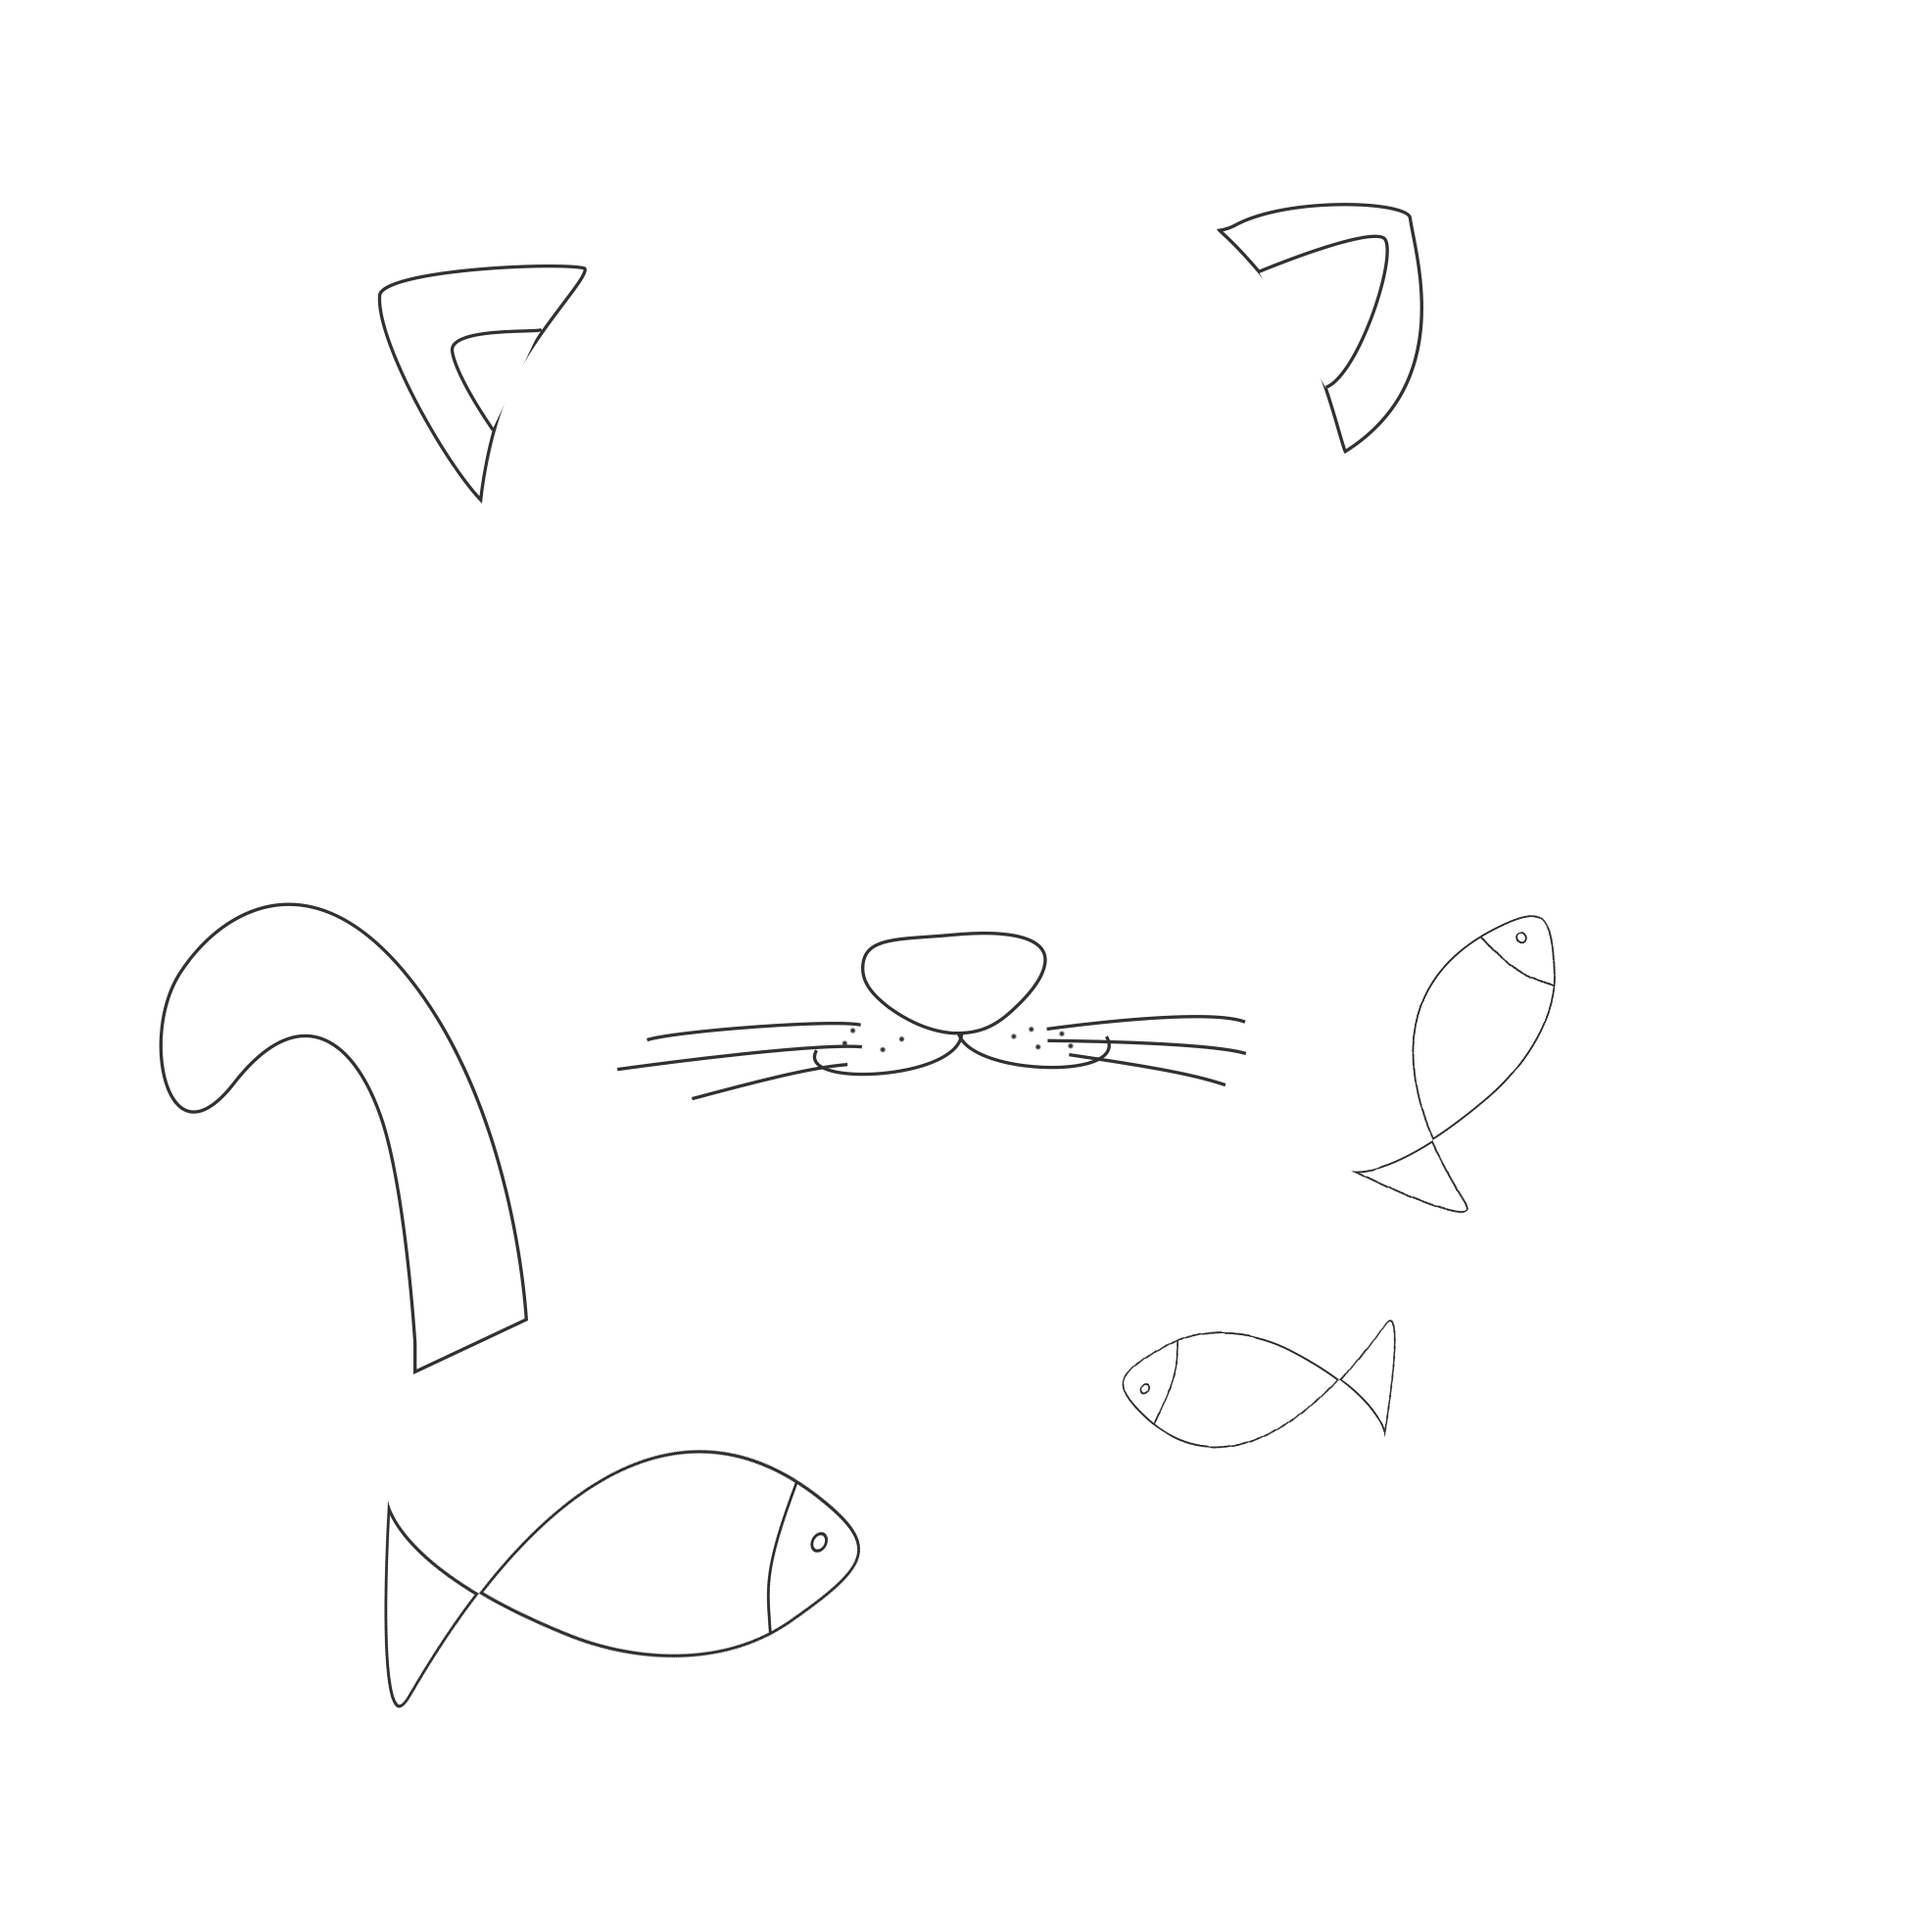
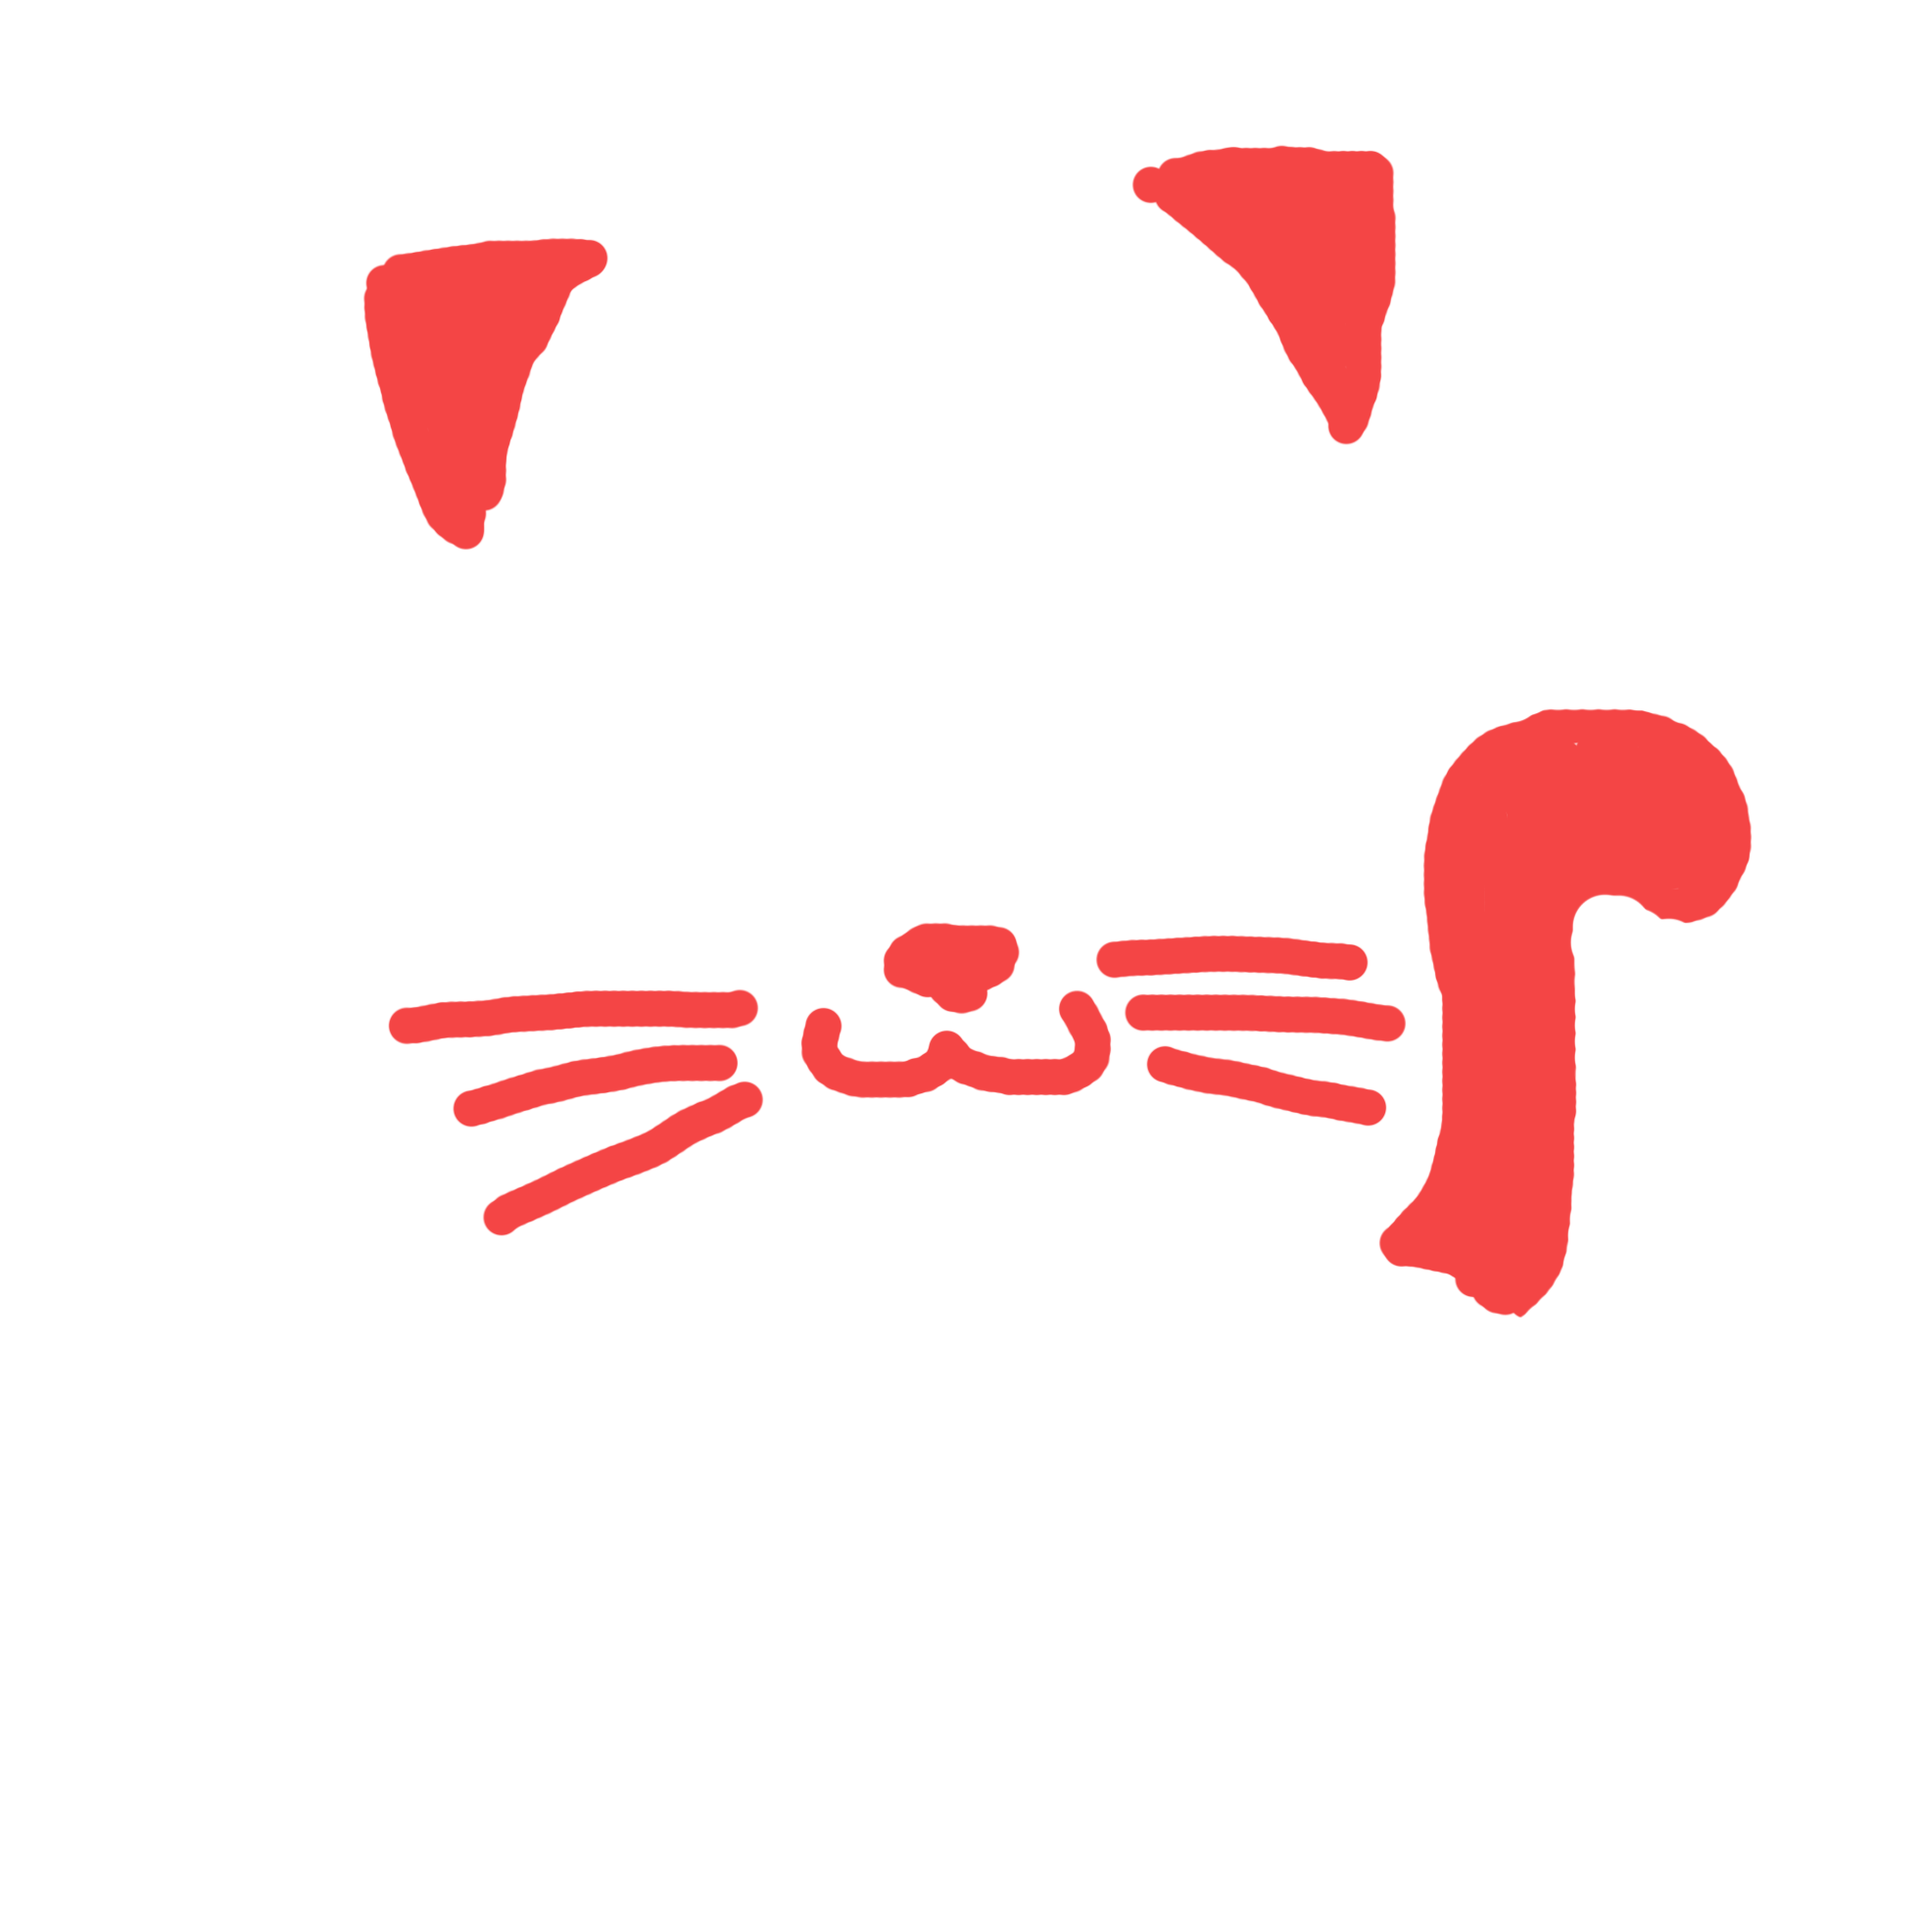
change photo

diff --git a/about_en.html b/about_en.html
@@ -63,8 +63,8 @@
 					<div class="wrapper">
 						<ul class="clearfix">
 							<li class="first">
-								<img src="images/me2.png"  class="circle">
-								<img src="images/amelia.png"  class="doodle circle">
+								<img src="images/amelia.png"  class="circle">
+								<img src="images/amelia2.png"  class="doodle circle">
 							</li>
 						</ul>
 					</div><!-- .wrapper -->

diff --git a/stylesheets/base.css b/stylesheets/base.css
@@ -974,7 +974,7 @@ border-radius: 150px;
 	position: absolute;
 	width: 270px;
 	height: 270px;
-	border:1px solid  #f44545;
+	border:2px solid  #f44545;
 	border-radius: 270px;
   -webkit-border-radius: 270px;
   -moz-border-radius: 270px;
@@ -1379,6 +1379,7 @@ width: 40%;
 	margin-top: 20px;
 	margin-left: 45px;
 	width: 400px;
+	padding-top: 5px;
 
 
 

diff --git a/home_en.html b/home_en.html
@@ -188,7 +188,7 @@ function changeImg2()
 					</figure>
 		</div>
 		<div id="bg" class="bg">
-			<img src="images/flow.png" alt="content" />
+			<img src="images/flow2.png" alt="content" />
 		</div>
 </div>
 
